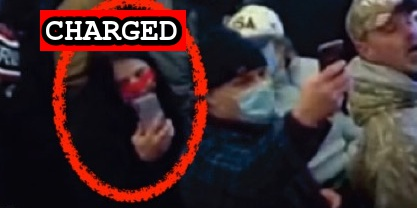
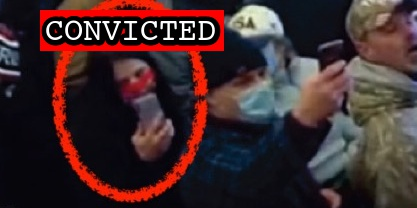
Latest import

Changed region(s): [[0.0935, 0.0288, 0.5612, 0.2596]]

diff --git a/docs/_suspects/meghan-rutledge.md b/docs/_suspects/meghan-rutledge.md
@@ -4,11 +4,11 @@ lastName: Rutledge
 hashtag:
 aka: Meghan Bostic
 residence: Virginia
-status: Charged
+status: Convicted
 date: 2021-10-05
 charged: 2021-10-05
 indicted:
-convicted:
+convicted: 2022-10-27
 acquitted:
 sentenced:
 dismissed:
@@ -40,9 +40,15 @@ caseName: USA v. RUTLEDGE
 judge: Colleen Kollar-Kotelly
 videos:
 charges:
+- code: 40 USC § 5104(e)(2)(G)
+  title: Parading, demonstrating or picketing in a Capitol building
+  url: https://www.law.cornell.edu/uscode/text/40/5104
+  felony: false
 sentence:
 ---
 - [News Report](https://www.13newsnow.com/article/news/crime/virginia-beach-woman-father-accused-us-capitol-riot-january-6/291-a4b9d125-e63b-414d-8a2a-2bd153af1bae)
 - [Complaint](https://www.justice.gov/usao-dc/case-multi-defendant/file/1457781/download)
-- [Information](https://www.justice.gov/usao-dc/case-multi-defendant/file/1457786/download)
+- [Information](https://www.justice.gov/usao-dc/case-multi-defendant/file/1547686/download)
 - [Statement of Facts](https://www.justice.gov/usao-dc/case-multi-defendant/file/1457791/download)
+- [Plea Agreement](https://www.justice.gov/usao-dc/case-multi-defendant/file/1547691/download)
+- [Statement of Offense](https://www.justice.gov/usao-dc/case-multi-defendant/file/1547696/download)

diff --git a/docs/_suspects/deborah-kuecken.md b/docs/_suspects/deborah-kuecken.md
@@ -3,7 +3,7 @@ name: Deborah Kuecken
 lastName: Kuecken
 hashtag:
 aka:
-residence:
+residence: Michigan
 status: Charged
 date: 2022-10-21
 charged: 2022-10-21

diff --git a/docs/_suspects/david-arredondo.md b/docs/_suspects/david-arredondo.md
@@ -3,7 +3,7 @@ name: David Arredondo
 lastName: Arredondo
 hashtag:
 aka:
-residence:
+residence: Texas
 status: Charged
 date: 2022-10-24
 charged: 2022-10-24

diff --git a/docs/_suspects/gary-smith.md b/docs/_suspects/gary-smith.md
@@ -3,7 +3,7 @@ name: Gary Smith
 lastName: Smith
 hashtag:
 aka:
-residence:
+residence: Michigan
 status: Charged
 date: 2022-10-21
 charged: 2022-10-21
